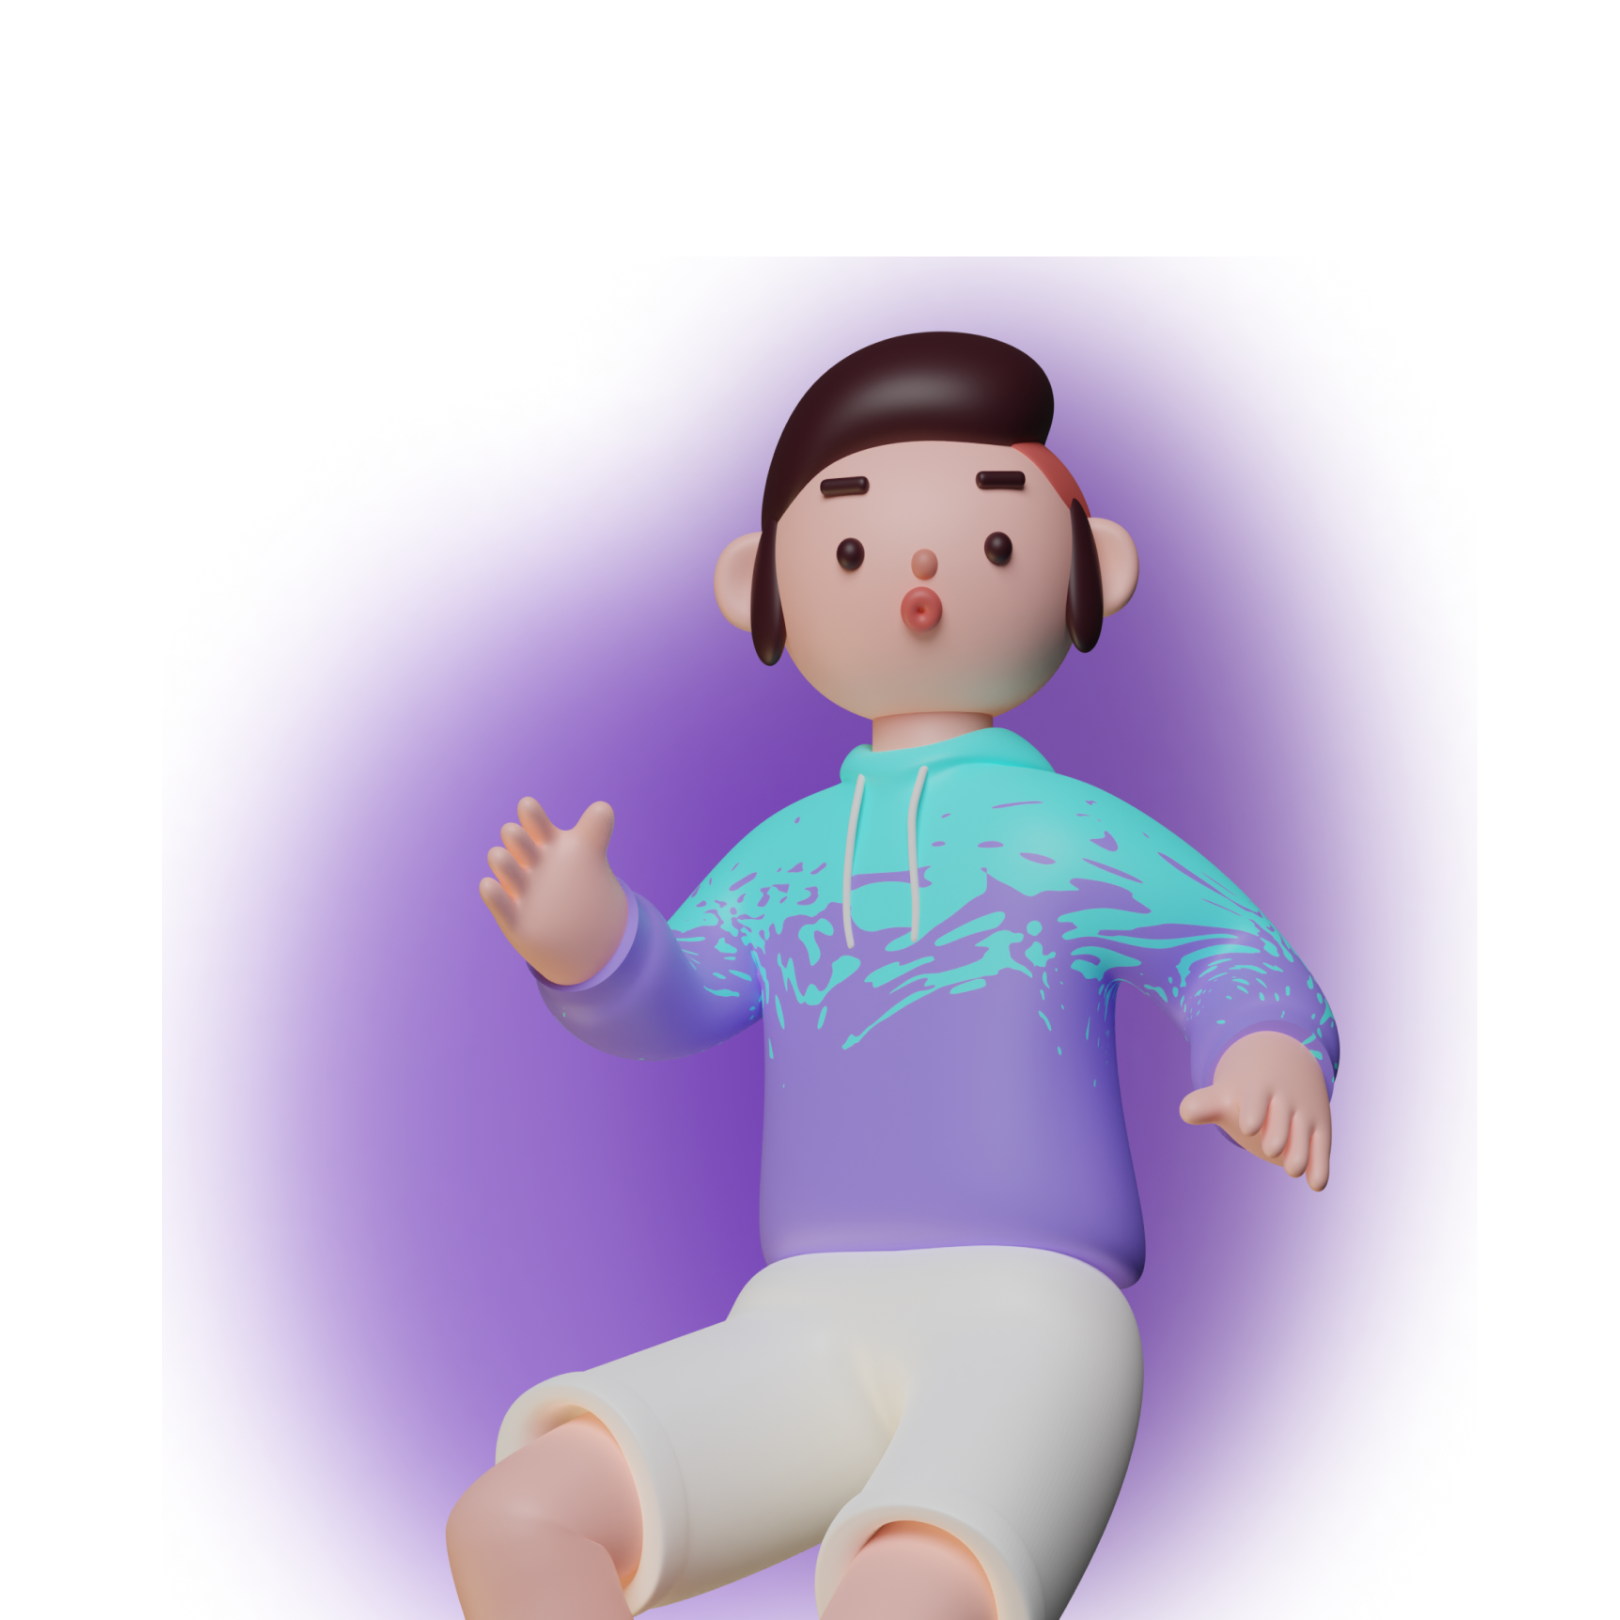
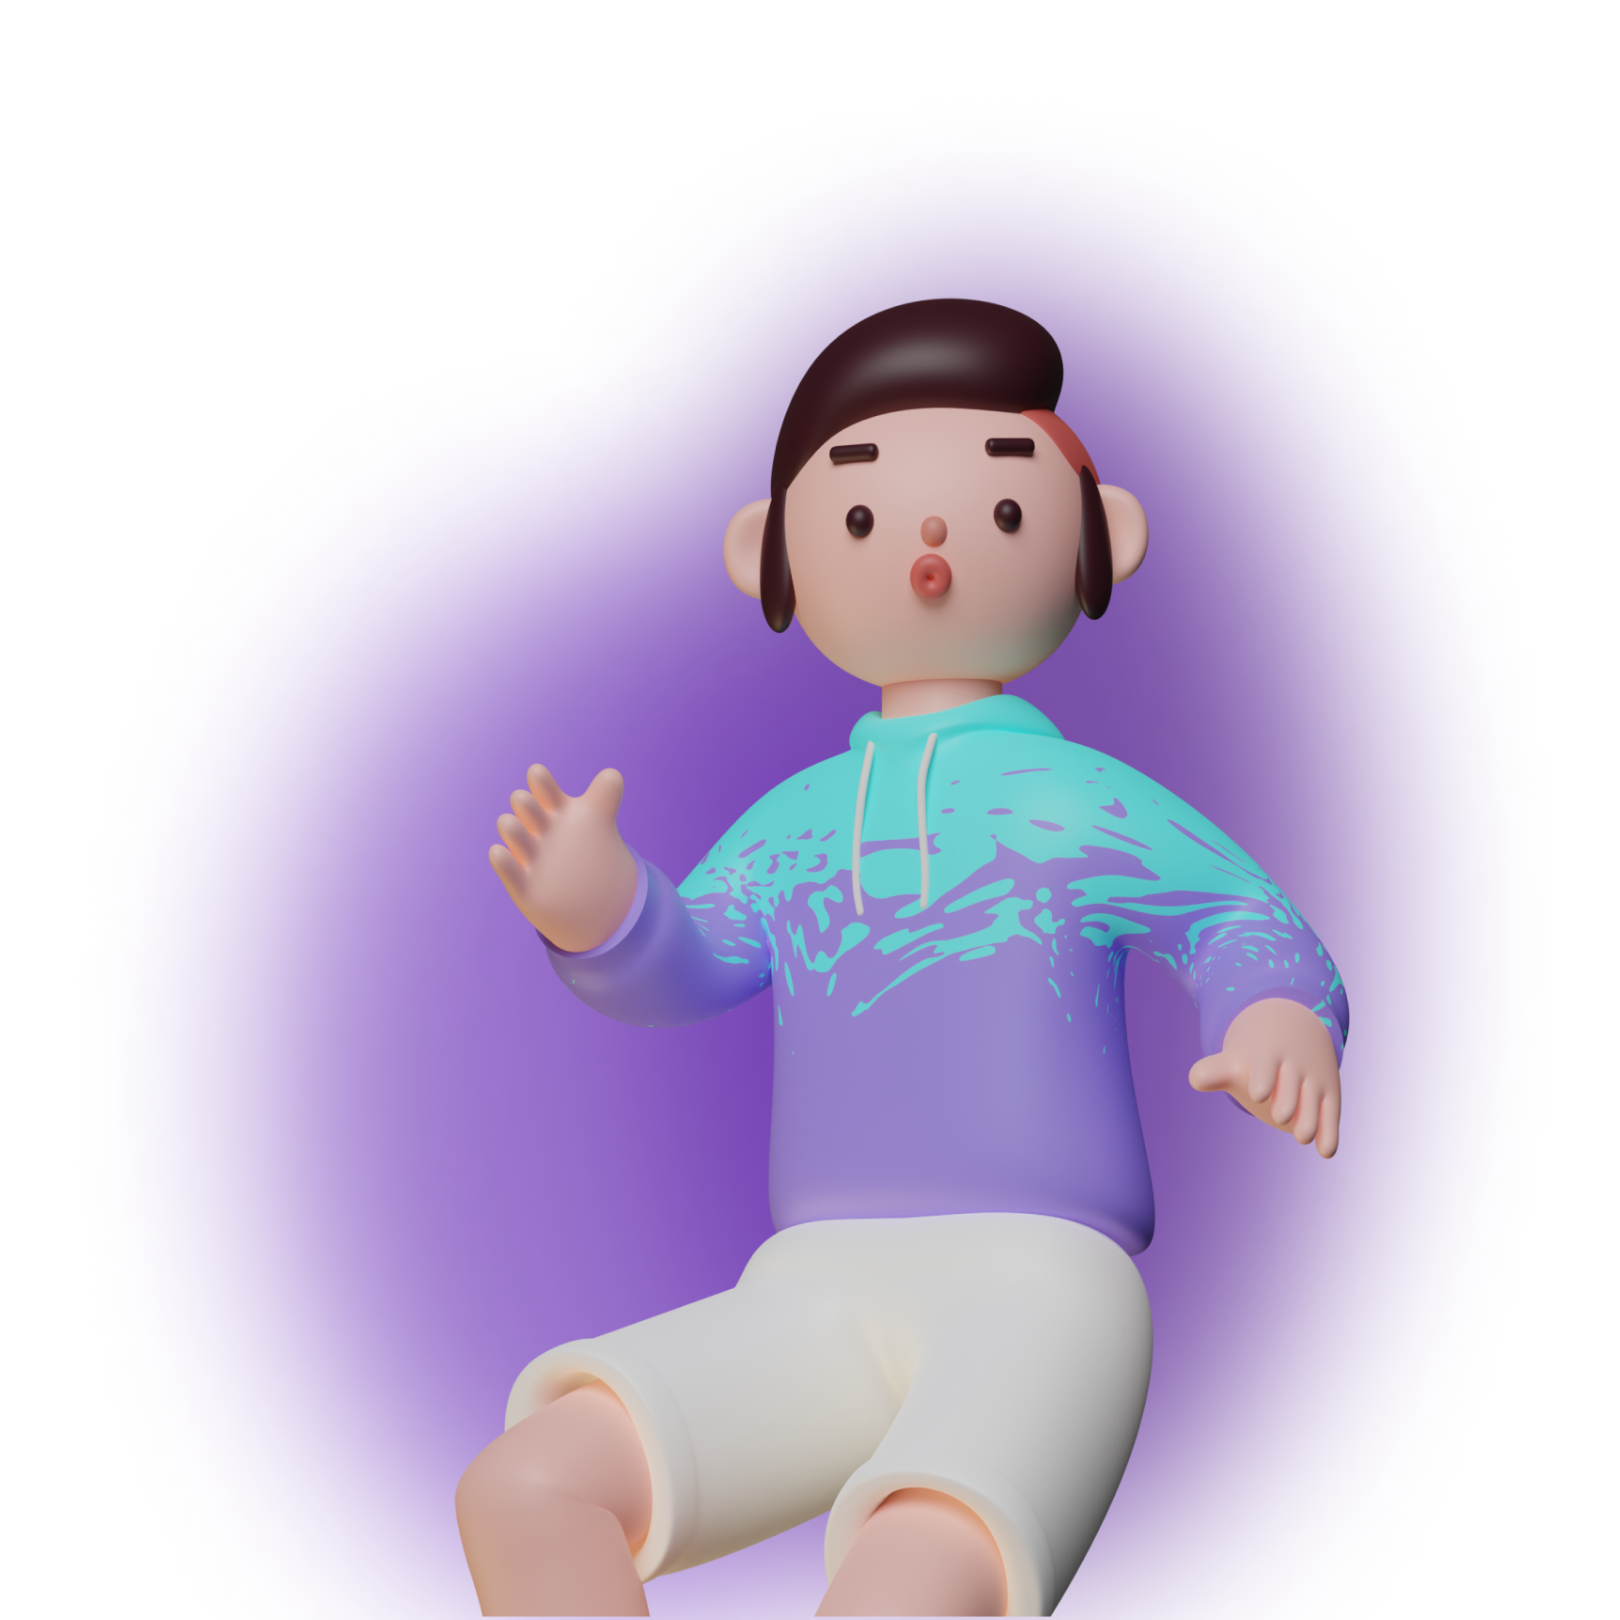
hero section: medium screen

Changed region(s): [[0.2778, 0.1235, 0.8333, 1.0]]

diff --git a/src/components/Hero.vue b/src/components/Hero.vue
@@ -1,21 +1,46 @@
 <template>
-  <div class="bg-purple-500">
-    <div class="flex flex-wrap">
-      <div class="px-8 pt-6">
-        <div class="text-white">
-          <p class="text-3xl font-bold">
+  <div class="bg-purple-500 lg:relative lg:overflow-x-hidden">
+    <div class="flex flex-wrap" id="animate-on-load" >
+      <div class="px-8 py-6 md:py-12 lg:w-1/5 lg:px-12 lg:py-16">
+        <div class="text-white lg:absolute lg:pr-80 lg:inset-y-1/3 lg:transform lg:-translate-y-1/3 lg:z-10">
+          <p class="text-3xl font-bold lg:text-5xl lg:pr-16">
             Innovation, Exploration, and Everything In Between
           </p>
-          <p class="pt-8 pb-4 opacity-75">
+          <p class="pt-8 pb-4 lg:pr-72 lg:text-lg lg:pt-12 lg:pb-10">
             Welcome to Nadia’s personal website, where I showcase my skills and
             expertise in software engineering.
           </p>
-          <button class="bg-pink-500 px-6 py-2">Discover More</button>
+          <button class="bg-pink-500 px-6 py-2 lg:text-lg hover:bg-pink-600 transition-all lg:px-8 lg:py-3">Discover More</button>
         </div>
       </div>
-      <div class="">
-        <img src="../../public/hero.png" alt="Hero" class=""/>
+      <div class="lg:w-4/5 lg:z-0">
+        <img src="/hero.png" alt="Hero" class="lg:w-[1200px] lg:relative lg:left-24"/>
       </div>
     </div>
   </div>
 </template>
+
+<style scoped>
+.animate-up {
+  animation: animateUp 1s ease forwards;
+}
+@keyframes animateUp {
+  from {
+    opacity: 0;
+    transform: translateY(20px);
+  }
+  to {
+    opacity: 1;
+    transform: translateY(0);
+  }
+}
+</style>
+
+<script>
+export default {
+  mounted() {
+    const animateOnLoad = document.getElementById("animate-on-load");
+    animateOnLoad.classList.add("animate-up");
+  },
+};
+</script>

diff --git a/tailwind.config.js b/tailwind.config.js
@@ -1,4 +1,6 @@
 /** @type {import('tailwindcss').Config} */
+const plugin = require("tailwindcss/plugin");
+
 export default {
   content: [
     "./index.html",
@@ -11,11 +13,25 @@ export default {
           '500': '#302895'
         },
         'pink':{
-          '500': '#C82179'
+          '500': '#C82179',
+          '600': '#A61662',
         }
       },
       fontFamily: { 'inter': ['Inter', 'Helvetica', 'Arial', 'sans-serif'] }
     },
   },
-  plugins: [],
+  plugins: [
+    plugin(function({ addUtilities }){
+      const utilities = {
+        ".bg-hero-first": {
+          "background-image": "url(/bg-hero.png)",
+          "background-size": "cover",
+          "background-position": "bottom",
+          "background-repeat": "no-repeat"
+        },
+      };
+
+      addUtilities(utilities);
+    })
+  ],
 }
